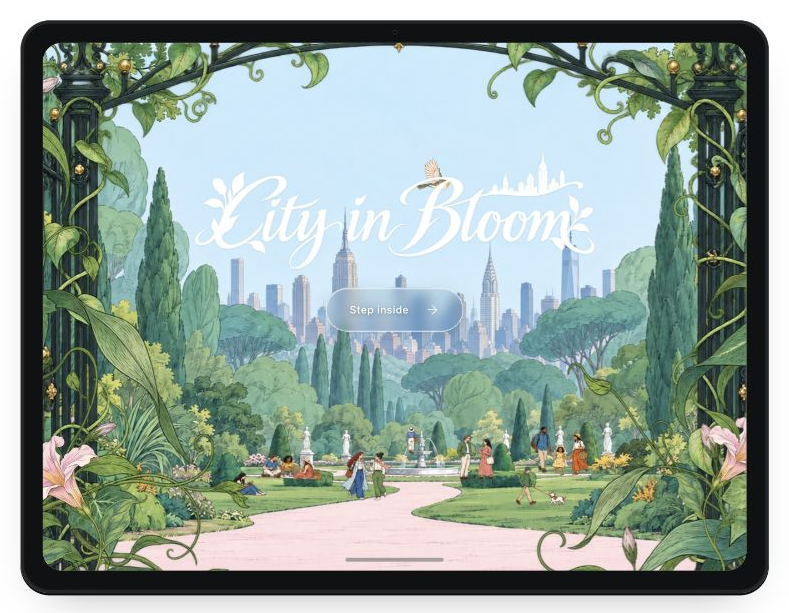
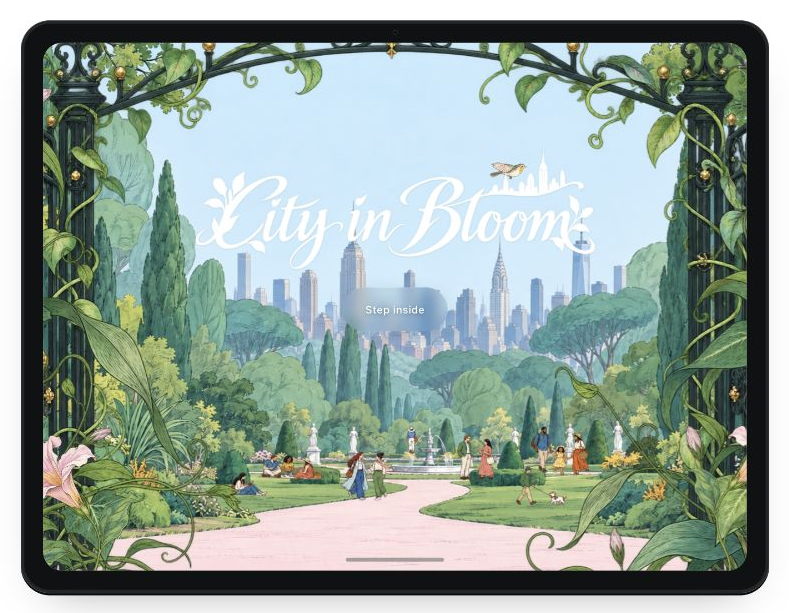
Simplify garden entry button by removing border and arrow

diff --git a/components/immersive/jardin-opening/jardin-opening.tsx b/components/immersive/jardin-opening/jardin-opening.tsx
@@ -2,7 +2,7 @@
 
 import * as React from "react";
 import { motion, useMotionValue, useReducedMotion, useSpring, useTransform } from "framer-motion";
-import { ArrowLeft, ArrowRight } from "lucide-react";
+import { ArrowLeft } from "lucide-react";
 
 export type JardinOpeningProps = {
   /** The opening title; the default uses the illustrated City in Bloom logo. */
@@ -102,8 +102,8 @@ const STYLES = `
 .jardin-opening .jardin-entry { min-height: 44px; gap: 16px; padding: 0 10px; font-size: max(9px, 1.1cqw); font-weight: 500; letter-spacing: .015em; }
 .jardin-opening button { -webkit-tap-highlight-color: transparent; cursor: pointer; }
 .jardin-opening button:focus-visible { outline: 2px solid currentColor; outline-offset: 5px; }
-.jardin-opening .jardin-primary { border-radius: 99px; padding: 0 23px; color: #fff; background: linear-gradient(145deg, #ffffff29, #ffffff08) #15342b24; border: 1px solid #ffffffd9; -webkit-backdrop-filter: blur(6px) saturate(140%); backdrop-filter: blur(6px) saturate(140%); box-shadow: inset 0 1px 0 #ffffff59, inset 0 -1px 0 #ffffff1f, 0 3px 14px #0d2d2820; text-shadow: 0 1px 4px #0c2c2866; transition: background .2s, box-shadow .2s; font-size: max(10px, 1.5cqw); }
-.jardin-opening .jardin-primary:hover { background: linear-gradient(145deg, #ffffff3d, #ffffff14) #15342b24; box-shadow: inset 0 1px 0 #ffffff80, inset 0 -1px 0 #ffffff29, 0 4px 18px #0d2d2826; }
+.jardin-opening .jardin-primary { border-radius: 99px; padding: 0 23px; color: #fff; background: linear-gradient(145deg, #ffffff29, #ffffff08) #15342b24; border: 0; -webkit-backdrop-filter: blur(6px) saturate(140%); backdrop-filter: blur(6px) saturate(140%); box-shadow: 0 3px 14px #0d2d2820; text-shadow: 0 1px 4px #0c2c2866; transition: background .2s, box-shadow .2s; font-size: max(10px, 1.5cqw); }
+.jardin-opening .jardin-primary:hover { background: linear-gradient(145deg, #ffffff3d, #ffffff14) #15342b24; box-shadow: 0 4px 18px #0d2d2826; }
 .jardin-opening .jardin-home { position: absolute; bottom: 9px; left: 43%; width: 14%; height: 4px; border-radius: 99px; background: #253d3766; pointer-events: none; }
 .jardin-opening .jardin-visitors { position: absolute; inset: 0; z-index: 1; pointer-events: none; transform: translateX(-2%) scale(.75); transform-origin: 50% 85%; }
 .jardin-opening .jardin-life { position: absolute; inset: 0; z-index: 3; pointer-events: none; }
@@ -334,8 +334,8 @@ export function JardinOpening({
           <motion.div className="absolute inset-x-0 top-[18%] z-10 flex flex-col items-center" animate={{ opacity: entered ? 0 : 1, y: entered ? -12 : 0 }} transition={{ duration: reduced ? 0 : .85 }} style={{ pointerEvents: entered ? "none" : "auto" }} inert={entered}>
             <PaintedTitle title={title} logoSrc={logoSrc} failed={assetFailed} />
             <div className="jardin-invitation mt-[1.8%]" onAnimationEnd={(event) => { if (event.animationName === "jardin-invite") setIntroStage("ready"); }}>
-            <button ref={enterRef} type="button" className="jardin-entry jardin-primary group inline-flex items-center" tabIndex={canEnter ? 0 : -1} disabled={!canEnter} onClick={() => { resetPointer(); setEntered(true); onEnter?.(); }}>
-              Step inside <ArrowRight size={15} strokeWidth={1.3} className="transition-transform duration-300 group-hover:translate-x-1" aria-hidden="true" />
+            <button ref={enterRef} type="button" className="jardin-entry jardin-primary inline-flex items-center justify-center" tabIndex={canEnter ? 0 : -1} disabled={!canEnter} onClick={() => { resetPointer(); setEntered(true); onEnter?.(); }}>
+              Step inside
             </button>
             </div>
           </motion.div>
